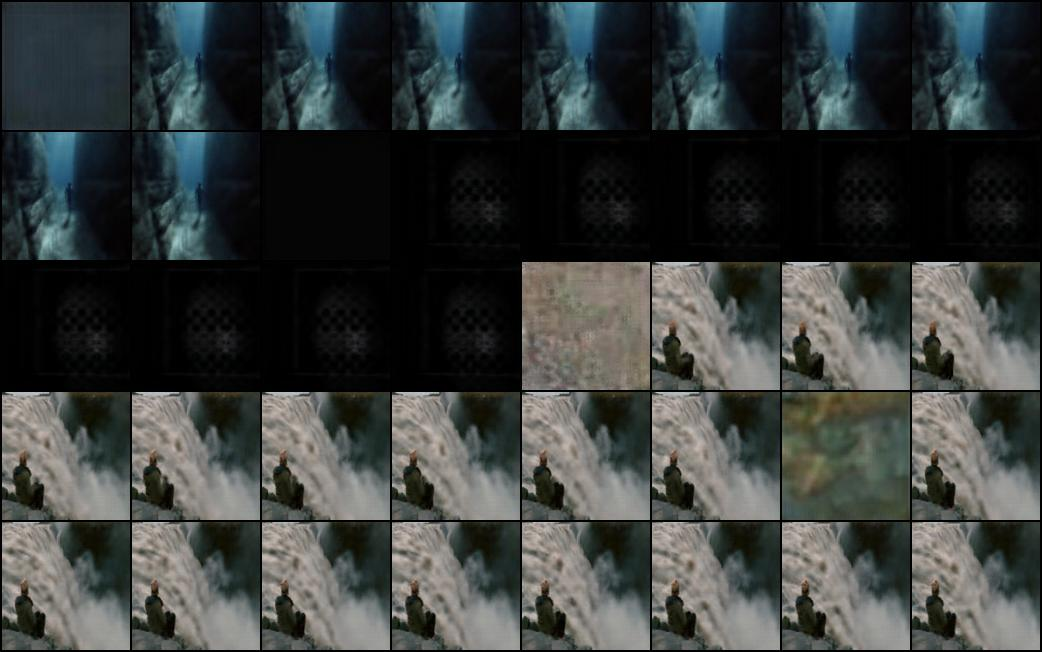
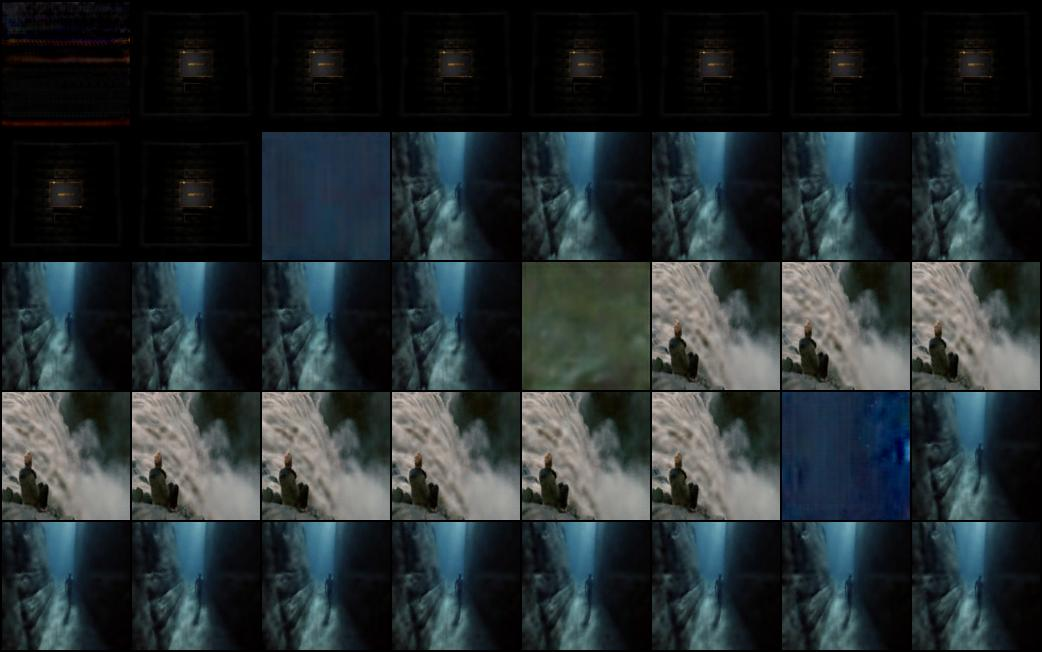
Updated images and readme

diff --git a/README.md b/README.md
@@ -12,7 +12,7 @@ Supplemental results: <https://ge.in.tum.de/wp-content/uploads/2020/05/ClickMe.h
 
 ![TecoGAN teaser image](Resources/teaser.jpg)
 ## Update:
-Sorry I just saw my imports were wrong on the main file. Now everything is fixed so it should work. 
+I have trained my model for 1500 epochs so far. My results are in the gan_examples.jpg, the input images in original_image.jpg, and native resolution images in real images.
 ### Additional Generated Outputs
 
 Our method generates fine details that 
